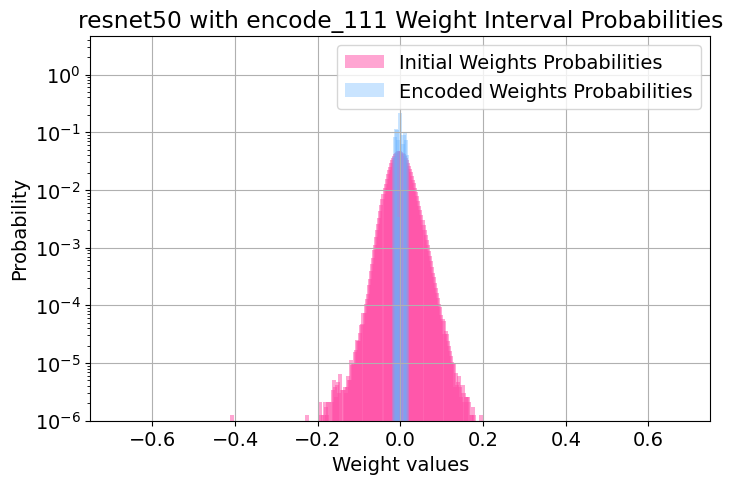
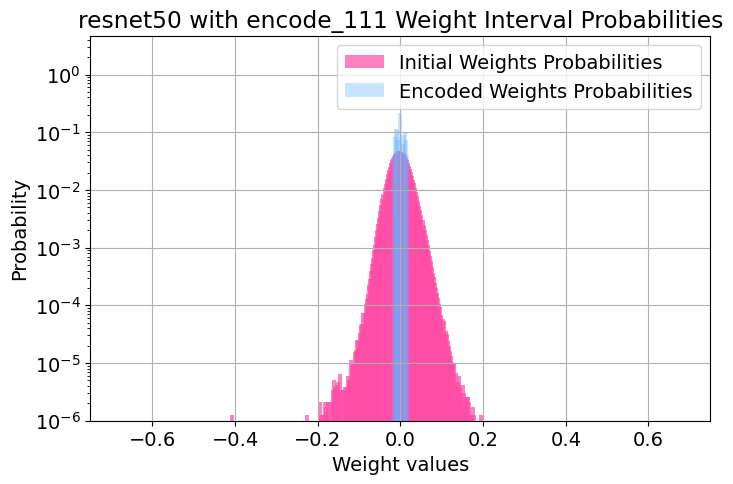
feat(model): add densenet121 paradistri pics

diff --git a/parameters/paraDistrb/paraDistribution.py b/parameters/paraDistrb/paraDistribution.py
@@ -19,6 +19,8 @@ convnextInitParaPath = '../init/convnext_base-6075fbad.pth'
 googlenetInitParaPath = '../init/googlenet-1378be20.pth'
 inceptionV3InitParaPath = '../init/inception_v3_google-0cc3c7bd.pth'
 vitb16InitParaPath = '../init/vit_b_16-c867db91.pth'
+densenet121InitParaPath = '../init/densenet121-a639ec97.pth'
+densenet201InitParaPath = '../init/densenet201-c1103571.pth'
 
 
 
@@ -27,13 +29,17 @@ resnet50_100 = './resnet50/encode_100.pth'
 resnet50_010 = './resnet50/encode_010.pth'
 resnet50_001 = './resnet50/encode_001.pth'
 resnet50_111 = './resnet50/encode_111.pth'
-paraPath = [resnet50_100, resnet50_010, resnet50_001, resnet50_111]
+densenet121_100 = './densenet121/encode_100.pth'
+densenet121_010 = './densenet121/encode_010.pth'
+densenet121_001 = './densenet121/encode_001.pth'
+densenet121_111 = './densenet121/encode_111.pth'
+paraPath = [densenet121_100, densenet121_010, densenet121_001, densenet121_111]
 
 
 
 
-paramsInit = torch.load(resnet50InitParaPath)
-weightsInit = paramsInit["layer4.0.conv2.weight"].cpu().numpy()
+paramsInit = torch.load(densenet121InitParaPath)
+weightsInit = paramsInit["features.denseblock4.denselayer14.conv2.weight"].cpu().numpy()
 
 
 # 定义计算MSE的函数
@@ -83,12 +89,20 @@ for para in paraPath:
         figName = 'resnet50 with encode_010'
     elif para == resnet50_001:
         figName = 'resnet50 with encode_001'
-    else:
+    elif para == resnet50_111:
         figName = 'resnet50 with encode_111'
+    elif para == densenet121_100:
+        figName = 'densenet121 with encode_100'
+    elif para == densenet121_010:
+        figName = 'densenet121 with encode_010'
+    elif para == densenet121_001:
+        figName = 'densenet121 with encode_001'
+    else:
+        figName = 'densenet121 with encode_111'
 
 
     params = torch.load(para)
-    weightsPara = params["layer4.0.conv2.weight"].cpu().numpy()
+    weightsPara = params["features.denseblock4.denselayer14.conv2.weight"].cpu().numpy()
 
     mse = calculate_mse(weightsInit, weightsPara)
     kl_div = calculate_kl_divergence(weightsInit, weightsPara)
@@ -107,9 +121,9 @@ for para in paraPath:
     plt.figure(figsize=(8, 5))
     # 设置全局字体大小
     plt.rcParams.update({'font.size': 14})  # 将所有字体放大为16
-    plt.bar(intervals_init_mid, probs_init, width=0.01, alpha=0.5, color='#ff4da6',
+    plt.bar(intervals_init_mid, probs_init, width=0.01, alpha=0.7, color='#ff4da6',
             label='Initial Weights Probabilities')
-    plt.bar(intervals_para_mid, probs_para, width=0.01, alpha=0.35, color='#66b2ff',
+    plt.bar(intervals_para_mid, probs_para, width=0.01, alpha=0.08, color='#66b2ff',
             label='Encoded Weights Probabilities')
 
     plt.xlim([-0.75, 0.75])  # 根据实际参数的范围调整
@@ -120,5 +134,5 @@ for para in paraPath:
     plt.title(figName + " Weight Interval Probabilities")
     plt.legend()
     plt.grid()
-    plt.savefig('./resnet50/pics/' + figName + '.png', bbox_inches='tight')
+    plt.savefig('./densenet121/pics/' + figName + '.png', bbox_inches='tight')
     plt.show()

diff --git a/parameters/paraDistrb/paraProcess.py b/parameters/paraDistrb/paraProcess.py
@@ -23,6 +23,9 @@ convnextInitParaPath = '../init/convnext_base-6075fbad.pth'
 googlenetInitParaPath = '../init/googlenet-1378be20.pth'
 inceptionV3InitParaPath = '../init/inception_v3_google-0cc3c7bd.pth'
 vitb16InitParaPath = '../init/vit_b_16-c867db91.pth'
+densenet121InitParaPath = '../init/densenet121-a639ec97.pth'
+densenet201InitParaPath = '../init/densenet201-c1103571.pth'
+
 
 
 '''用于存储bit翻转率的结果'''
@@ -379,25 +382,41 @@ def layerExpBitEmbedd_111(initParaPath, flipParaPath, layers, malwares, interval
 if __name__ == "__main__":
 
 
-    """
-    20240914 流程对比实验
-    resnet50
-    layer4.0.conv2.weight
-    layer4.1.conv2.weight
-    layer4.2.conv2.weight
-    """
-    layers = ["layer4.0.conv2.weight"]
-    malwares = ["./malware/resnet50_l1"]
-    malwares_extract = ["./malware/resnet50_l1_extract"]
-    interval = 1
-    correct = 1
-    # savePath = "./resnet50/resnet50_3layers_9inter_11corr.pth"
-
-    sizeList = getExpEmbeddSize(resnet50InitParaPath, layers, interval, correct)
+    # """
+    # 20240914 流程对比实验
+    # resnet50
+    # layer4.0.conv2.weight
+    # """
+    # layers = ["layer4.0.conv2.weight"]
+    # malwares = ["./malware/resnet50_l1"]
+    # malwares_extract = ["./malware/resnet50_l1_extract"]
+    # interval = 1
+    # correct = 1
+    # # savePath = "./resnet50/resnet50_3layers_9inter_11corr.pth"
+    #
+    # sizeList = getExpEmbeddSize(resnet50InitParaPath, layers, interval, correct)
     # generateFiles(malwares, sizeList)
     # layerExpBitEmbedd(resnet50InitParaPath, './resnet50/encode_100.pth', layers, malwares, interval, correct)
     # layerExpBitEmbedd_010(resnet50InitParaPath, './resnet50/encode_010.pth', layers, malwares, interval, correct)
     # layerExpBitEmbedd_001(resnet50InitParaPath, './resnet50/encode_001.pth', layers, malwares, interval, correct)
     # layerExpBitEmbedd_111(resnet50InitParaPath, './resnet50/encode_111.pth', layers, malwares, interval, correct)
+
+    """
+        20240914 流程对比实验
+        densenet121
+        """
+    layers = ["features.denseblock4.denselayer14.conv2.weight"]
+    malwares = ["./malware/densenet121"]
+    malwares_extract = ["./malware/densenet121_extract"]
+    interval = 1
+    correct = 1
+    # savePath = "./resnet50/resnet50_3layers_9inter_11corr.pth"
+
+    sizeList = getExpEmbeddSize(densenet121InitParaPath, layers, interval, correct)
+    generateFiles(malwares, sizeList)
+    layerExpBitEmbedd(densenet121InitParaPath, './densenet121/encode_100.pth', layers, malwares, interval, correct)
+    layerExpBitEmbedd_010(densenet121InitParaPath, './densenet121/encode_010.pth', layers, malwares, interval, correct)
+    layerExpBitEmbedd_001(densenet121InitParaPath, './densenet121/encode_001.pth', layers, malwares, interval, correct)
+    layerExpBitEmbedd_111(densenet121InitParaPath, './densenet121/encode_111.pth', layers, malwares, interval, correct)
 
     print("Done")

diff --git a/parameters/viewPara.py b/parameters/viewPara.py
@@ -54,19 +54,19 @@ def showParaValue(paraPath):
 
 
 '''处理densenee预训练参数中的key'''
-# 加载原始 state_dict
-state_dict = torch.load(densenet201InitParaPath)
-
-# 创建一个新的 state_dict，修复不匹配的键
-new_state_dict = {}
-for key in state_dict.keys():
-    # 修复键名，将 'norm.1' 改为 'norm1'，类似地处理其他键名
-    new_key = key.replace('norm.1', 'norm1').replace('conv.1', 'conv1') \
-                 .replace('norm.2', 'norm2').replace('conv.2', 'conv2')
-    new_state_dict[new_key] = state_dict[key]
-
-# 保存修正后的 state_dict 为新的 pth 文件
-torch.save(new_state_dict, densenet201InitParaPath)
+# # 加载原始 state_dict
+# state_dict = torch.load(densenet201InitParaPath)
+#
+# # 创建一个新的 state_dict，修复不匹配的键
+# new_state_dict = {}
+# for key in state_dict.keys():
+#     # 修复键名，将 'norm.1' 改为 'norm1'，类似地处理其他键名
+#     new_key = key.replace('norm.1', 'norm1').replace('conv.1', 'conv1') \
+#                  .replace('norm.2', 'norm2').replace('conv.2', 'conv2')
+#     new_state_dict[new_key] = state_dict[key]
+#
+# # 保存修正后的 state_dict 为新的 pth 文件
+# torch.save(new_state_dict, densenet201InitParaPath)
 
 
 if __name__ == "__main__":

diff --git a/parameters/paraDistrb/README.md b/parameters/paraDistrb/README.md
@@ -1,0 +1,27 @@
+Resent50
+
+```
+"layer4.0.conv2.weight"
+```
+
+
+
+
+
+densenet121
+
+```
+"features.denseblock4.denselayer14.conv2.weight"
+```
+
+MSE:  0.0060047014
+KL:  2.565392437350731
+./densenet121/encode_010.pth
+MSE:  0.022428486
+KL:  5.472674850716233
+./densenet121/encode_001.pth
+MSE:  0.094052
+KL:  5.520052582552055
+./densenet121/encode_111.pth
+MSE:  0.388076
+KL:  4.90996567896042
